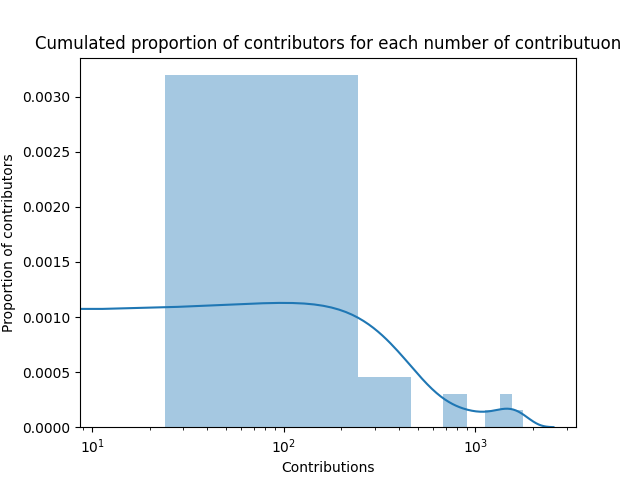
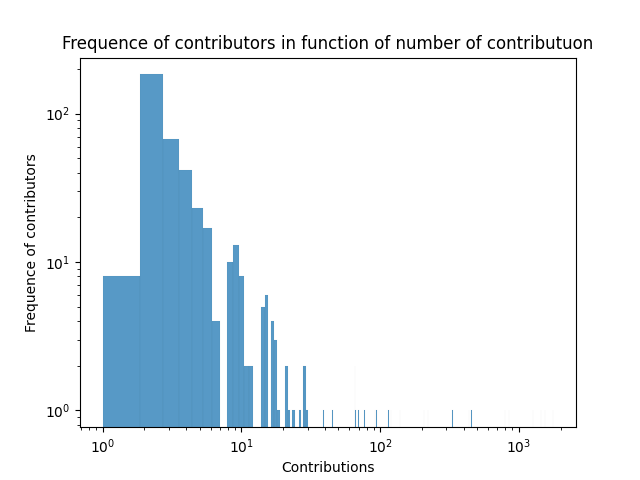
final commit (I hope)

diff --git a/delight.py b/delight.py
@@ -47,6 +47,8 @@ def plot_cumulated_contributions(contributor_list):
 def plot_contributions(contributor_list):
     contributions_list = [contributor['contributions'] for contributor in contributor_list]
     plot = sns.histplot(contributions_list)
+    plot.set_xscale("log")
+    plot.set_yscale("log")
     plot.set(xlabel="Contributions", ylabel="Frequence of contributors")
     plot.set_title("Frequence of contributors in function of number of contributuon")
     plt.savefig("contributions.png")
@@ -59,8 +61,8 @@ def pie_plot(contributor_list):
     plt.savefig("contributors_pie.png")
     plt.clf()
 
-contributor_list = [
-  {"login": "zpao",
-    'id': 8445, 'node_id': 'MDQ6VXNlcjg0NDU=', 'avatar_url': 'https://avatars1.githubusercontent.com/u/8445?v=4', 'gravatar_id': '', 'url': 'https://api.github.com/users/zpao', 'html_url': 'https://github.com/zpao', 'followers_url': 'https://api.github.com/users/zpao/followers', 'following_url': 'https://api.github.com/users/zpao/following{/other_user}', 'gists_url': 'https://api.github.com/users/zpao/gists{/gist_id}', 'starred_url': 'https://api.github.com/users/zpao/starred{/owner}{/repo}', 'subscriptions_url': 'https://api.github.com/users/zpao/subscriptions', 'organizations_url': 'https://api.github.com/users/zpao/orgs', 'repos_url': 'https://api.github.com/users/zpao/repos', 'events_url': 'https://api.github.com/users/zpao/events{/privacy}', 'received_events_url': 'https://api.github.com/users/zpao/received_events', 'type': 'User', 'site_admin': False, 'contributions': 1777}, {'login': 'gaearon', 'id': 810438, 'node_id': 'MDQ6VXNlcjgxMDQzOA==', 'avatar_url': 'https://avatars0.githubusercontent.com/u/810438?v=4', 'gravatar_id': '', 'url': 'https://api.github.com/users/gaearon', 'html_url': 'https://github.com/gaearon', 'followers_url': 'https://api.github.com/users/gaearon/followers', 'following_url': 'https://api.github.com/users/gaearon/following{/other_user}', 'gists_url': 'https://api.github.com/users/gaearon/gists{/gist_id}', 'starred_url': 'https://api.github.com/users/gaearon/starred{/owner}{/repo}', 'subscriptions_url': 'https://api.github.com/users/gaearon/subscriptions', 'organizations_url': 'https://api.github.com/users/gaearon/orgs', 'repos_url': 'https://api.github.com/users/gaearon/repos', 'events_url': 'https://api.github.com/users/gaearon/events{/privacy}', 'received_events_url': 'https://api.github.com/users/gaearon/received_events', 'type': 'User', 'site_admin': False, 'contributions': 1547}, {'login': 'bvaughn', 'id': 29597, 'node_id': 'MDQ6VXNlcjI5NTk3', 'avatar_url': 'https://avatars0.githubusercontent.com/u/29597?v=4', 'gravatar_id': '', 'url': 'https://api.github.com/users/bvaughn', 'html_url': 'https://github.com/bvaughn', 'followers_url': 'https://api.github.com/users/bvaughn/followers', 'following_url': 'https://api.github.com/users/bvaughn/following{/other_user}', 'gists_url': 'https://api.github.com/users/bvaughn/gists{/gist_id}', 'starred_url': 'https://api.github.com/users/bvaughn/starred{/owner}{/repo}', 'subscriptions_url': 'https://api.github.com/users/bvaughn/subscriptions', 'organizations_url': 'https://api.github.com/users/bvaughn/orgs', 'repos_url': 'https://api.github.com/users/bvaughn/repos', 'events_url': 'https://api.github.com/users/bvaughn/events{/privacy}', 'received_events_url': 'https://api.github.com/users/bvaughn/received_events', 'type': 'User', 'site_admin': False, 'contributions': 1435}, {'login': 'sophiebits', 'id': 6820, 'node_id': 'MDQ6VXNlcjY4MjA=', 'avatar_url': 'https://avatars2.githubusercontent.com/u/6820?v=4', 'gravatar_id': '', 'url': 'https://api.github.com/users/sophiebits', 'html_url': 'https://github.com/sophiebits', 'followers_url': 'https://api.github.com/users/sophiebits/followers', 'following_url': 'https://api.github.com/users/sophiebits/following{/other_user}', 'gists_url': 'https://api.github.com/users/sophiebits/gists{/gist_id}', 'starred_url': 'https://api.github.com/users/sophiebits/starred{/owner}{/repo}', 'subscriptions_url': 'https://api.github.com/users/sophiebits/subscriptions', 'organizations_url': 'https://api.github.com/users/sophiebits/orgs', 'repos_url': 'https://api.github.com/users/sophiebits/repos', 'events_url': 'https://api.github.com/users/sophiebits/events{/privacy}', 'received_events_url': 'https://api.github.com/users/sophiebits/received_events', 'type': 'User', 'site_admin': False, 'contributions': 1268}, {'login': 'sebmarkbage', 'id': 63648, 'node_id': 'MDQ6VXNlcjYzNjQ4', 'avatar_url': 'https://avatars2.githubusercontent.com/u/63648?v=4', 'gravatar_id': '', 'url': 'https://api.github.com/users/sebmarkbage', 'html_url': 'https://github.com/sebmarkbage', 'followers_url': 'https://api.github.com/users/sebmarkbage/followers', 'following_url': 'https://api.github.com/users/sebmarkbage/following{/other_user}', 'gists_url': 'https://api.github.com/users/sebmarkbage/gists{/gist_id}', 'starred_url': 'https://api.github.com/users/sebmarkbage/starred{/owner}{/repo}', 'subscriptions_url': 'https://api.github.com/users/sebmarkbage/subscriptions', 'organizations_url': 'https://api.github.com/users/sebmarkbage/orgs', 'repos_url': 'https://api.github.com/users/sebmarkbage/repos', 'events_url': 'https://api.github.com/users/sebmarkbage/events{/privacy}', 'received_events_url': 'https://api.github.com/users/sebmarkbage/received_events', 'type': 'User', 'site_admin': False, 'contributions': 846}, {'login': 'acdlite', 'id': 3624098, 'node_id': 'MDQ6VXNlcjM2MjQwOTg=', 'avatar_url': 'https://avatars0.githubusercontent.com/u/3624098?v=4', 'gravatar_id': '', 'url': 'https://api.github.com/users/acdlite', 'html_url': 'https://github.com/acdlite', 'followers_url': 'https://api.github.com/users/acdlite/followers', 'following_url': 'https://api.github.com/users/acdlite/following{/other_user}', 'gists_url': 'https://api.github.com/users/acdlite/gists{/gist_id}', 'starred_url': 'https://api.github.com/users/acdlite/starred{/owner}{/repo}', 'subscriptions_url': 'https://api.github.com/users/acdlite/subscriptions', 'organizations_url': 'https://api.github.com/users/acdlite/orgs', 'repos_url': 'https://api.github.com/users/acdlite/repos', 'events_url': 'https://api.github.com/users/acdlite/events{/privacy}', 'received_events_url': 'https://api.github.com/users/acdlite/received_events', 'type': 'User', 'site_admin': False, 'contributions': 797}, {'login': 'jimfb', 'id': 9595985, 'node_id': 'MDQ6VXNlcjk1OTU5ODU=', 'avatar_url': 'https://avatars3.githubusercontent.com/u/9595985?v=4', 'gravatar_id': '', 'url': 'https://api.github.com/users/jimfb', 'html_url': 'https://github.com/jimfb', 'followers_url': 'https://api.github.com/users/jimfb/followers', 'following_url': 'https://api.github.com/users/jimfb/following{/other_user}', 'gists_url': 'https://api.github.com/users/jimfb/gists{/gist_id}', 'starred_url': 'https://api.github.com/users/jimfb/starred{/owner}{/repo}', 'subscriptions_url': 'https://api.github.com/users/jimfb/subscriptions', 'organizations_url': 'https://api.github.com/users/jimfb/orgs', 'repos_url': 'https://api.github.com/users/jimfb/repos', 'events_url': 'https://api.github.com/users/jimfb/events{/privacy}', 'received_events_url': 'https://api.github.com/users/jimfb/received_events', 'type': 'User', 'site_admin': False, 'contributions': 456}, {'login': 'trueadm', 'id': 1519870, 'node_id': 'MDQ6VXNlcjE1MTk4NzA=', 'avatar_url': 'https://avatars0.githubusercontent.com/u/1519870?v=4', 'gravatar_id': '', 'url': 'https://api.github.com/users/trueadm', 'html_url': 'https://github.com/trueadm', 'followers_url': 'https://api.github.com/users/trueadm/followers', 'following_url': 'https://api.github.com/users/trueadm/following{/other_user}', 'gists_url': 'https://api.github.com/users/trueadm/gists{/gist_id}', 'starred_url': 'https://api.github.com/users/trueadm/starred{/owner}{/repo}', 'subscriptions_url': 'https://api.github.com/users/trueadm/subscriptions', 'organizations_url': 'https://api.github.com/users/trueadm/orgs', 'repos_url': 'https://api.github.com/users/trueadm/repos', 'events_url': 'https://api.github.com/users/trueadm/events{/privacy}', 'received_events_url': 'https://api.github.com/users/trueadm/received_events', 'type': 'User', 'site_admin': False, 'contributions': 436}, {'login': 'petehunt', 'id': 239742, 'node_id': 'MDQ6VXNlcjIzOTc0Mg==', 'avatar_url': 'https://avatars0.githubusercontent.com/u/239742?v=4', 'gravatar_id': '', 'url': 'https://api.github.com/users/petehunt', 'html_url': 'https://github.com/petehunt', 'followers_url': 'https://api.github.com/users/petehunt/followers', 'following_url': 'https://api.github.com/users/petehunt/following{/other_user}', 'gists_url': 'https://api.github.com/users/petehunt/gists{/gist_id}', 'starred_url': 'https://api.github.com/users/petehunt/starred{/owner}{/repo}', 'subscriptions_url': 'https://api.github.com/users/petehunt/subscriptions', 'organizations_url': 'https://api.github.com/users/petehunt/orgs', 'repos_url': 'https://api.github.com/users/petehunt/repos', 'events_url': 'https://api.github.com/users/petehunt/events{/privacy}', 'received_events_url': 'https://api.github.com/users/petehunt/received_events', 'type': 'User', 'site_admin': False, 'contributions': 332}, {'login': 'chenglou', 'id': 1909539, 'node_id': 'MDQ6VXNlcjE5MDk1Mzk=', 'avatar_url': 'https://avatars2.githubusercontent.com/u/1909539?v=4', 'gravatar_id': '', 'url': 'https://api.github.com/users/chenglou', 'html_url': 'https://github.com/chenglou', 'followers_url': 'https://api.github.com/users/chenglou/followers', 'following_url': 'https://api.github.com/users/chenglou/following{/other_user}', 'gists_url': 'https://api.github.com/users/chenglou/gists{/gist_id}', 'starred_url': 'https://api.github.com/users/chenglou/starred{/owner}{/repo}', 'subscriptions_url': 'https://api.github.com/users/chenglou/subscriptions', 'organizations_url': 'https://api.github.com/users/chenglou/orgs', 'repos_url': 'https://api.github.com/users/chenglou/repos', 'events_url': 'https://api.github.com/users/chenglou/events{/privacy}', 'received_events_url': 'https://api.github.com/users/chenglou/received_events', 'type': 'User', 'site_admin': False, 'contributions': 222}, {'login': 'vjeux', 'id': 197597, 'node_id': 'MDQ6VXNlcjE5NzU5Nw==', 'avatar_url': 'https://avatars0.githubusercontent.com/u/197597?v=4', 'gravatar_id': '', 'url': 'https://api.github.com/users/vjeux', 'html_url': 'https://github.com/vjeux', 'followers_url': 'https://api.github.com/users/vjeux/followers', 'following_url': 'https://api.github.com/users/vjeux/following{/other_user}', 'gists_url': 'https://api.github.com/users/vjeux/gists{/gist_id}', 'starred_url': 'https://api.github.com/users/vjeux/starred{/owner}{/repo}', 'subscriptions_url': 'https://api.github.com/users/vjeux/subscriptions', 'organizations_url': 'https://api.github.com/users/vjeux/orgs', 'repos_url': 'https://api.github.com/users/vjeux/repos', 'events_url': 'https://api.github.com/users/vjeux/events{/privacy}', 'received_events_url': 'https://api.github.com/users/vjeux/received_events', 'type': 'User', 'site_admin': False, 'contributions': 207}, {'login': 'benjamn', 'id': 5750, 'node_id': 'MDQ6VXNlcjU3NTA=', 'avatar_url': 'https://avatars0.githubusercontent.com/u/5750?v=4', 'gravatar_id': '', 'url': 'https://api.github.com/users/benjamn', 'html_url': 'https://github.com/benjamn', 'followers_url': 'https://api.github.com/users/benjamn/followers', 'following_url': 'https://api.github.com/users/benjamn/following{/other_user}', 'gists_url': 'https://api.github.com/users/benjamn/gists{/gist_id}', 'starred_url': 'https://api.github.com/users/benjamn/starred{/owner}{/repo}', 'subscriptions_url': 'https://api.github.com/users/benjamn/subscriptions', 'organizations_url': 'https://api.github.com/users/benjamn/orgs', 'repos_url': 'https://api.github.com/users/benjamn/repos', 'events_url': 'https://api.github.com/users/benjamn/events{/privacy}', 'received_events_url': 'https://api.github.com/users/benjamn/received_events', 'type': 'User', 'site_admin': False, 'contributions': 140}, {'login': 'yungsters', 'id': 55161, 'node_id': 'MDQ6VXNlcjU1MTYx', 'avatar_url': 'https://avatars0.githubusercontent.com/u/55161?v=4', 'gravatar_id': '', 'url': 'https://api.github.com/users/yungsters', 'html_url': 'https://github.com/yungsters', 'followers_url': 'https://api.github.com/users/yungsters/followers', 'following_url': 'https://api.github.com/users/yungsters/following{/other_user}', 'gists_url': 'https://api.github.com/users/yungsters/gists{/gist_id}', 'starred_url': 'https://api.github.com/users/yungsters/starred{/owner}{/repo}', 'subscriptions_url': 'https://api.github.com/users/yungsters/subscriptions', 'organizations_url': 'https://api.github.com/users/yungsters/orgs', 'repos_url': 'https://api.github.com/users/yungsters/repos', 'events_url': 'https://api.github.com/users/yungsters/events{/privacy}', 'received_events_url': 'https://api.github.com/users/yungsters/received_events', 'type': 'User', 'site_admin': False, 'contributions': 120}, {'login': 'subtleGradient', 'id': 4117, 'node_id': 'MDQ6VXNlcjQxMTc=', 'avatar_url': 'https://avatars2.githubusercontent.com/u/4117?v=4', 'gravatar_id': '', 'url': 'https://api.github.com/users/subtleGradient', 'html_url': 'https://github.com/subtleGradient', 'followers_url': 'https://api.github.com/users/subtleGradient/followers', 'following_url': 'https://api.github.com/users/subtleGradient/following{/other_user}', 'gists_url': 'https://api.github.com/users/subtleGradient/gists{/gist_id}', 'starred_url': 'https://api.github.com/users/subtleGradient/starred{/owner}{/repo}', 'subscriptions_url': 'https://api.github.com/users/subtleGradient/subscriptions', 'organizations_url': 'https://api.github.com/users/subtleGradient/orgs', 'repos_url': 'https://api.github.com/users/subtleGradient/repos', 'events_url': 'https://api.github.com/users/subtleGradient/events{/privacy}', 'received_events_url': 'https://api.github.com/users/subtleGradient/received_events', 'type': 'User', 'site_admin': False, 'contributions': 115}, {'login': 'nhunzaker', 'id': 590904, 'node_id': 'MDQ6VXNlcjU5MDkwNA==', 'avatar_url': 'https://avatars3.githubusercontent.com/u/590904?v=4', 'gravatar_id': '', 'url': 'https://api.github.com/users/nhunzaker', 'html_url': 'https://github.com/nhunzaker', 'followers_url': 'https://api.github.com/users/nhunzaker/followers', 'following_url': 'https://api.github.com/users/nhunzaker/following{/other_user}', 'gists_url': 'https://api.github.com/users/nhunzaker/gists{/gist_id}', 'starred_url': 'https://api.github.com/users/nhunzaker/starred{/owner}{/repo}', 'subscriptions_url': 'https://api.github.com/users/nhunzaker/subscriptions', 'organizations_url': 'https://api.github.com/users/nhunzaker/orgs', 'repos_url': 'https://api.github.com/users/nhunzaker/repos', 'events_url': 'https://api.github.com/users/nhunzaker/events{/privacy}', 'received_events_url': 'https://api.github.com/users/nhunzaker/received_events', 'type': 'User', 'site_admin': False, 'contributions': 94}, {'login': 'necolas', 'id': 239676, 'node_id': 'MDQ6VXNlcjIzOTY3Ng==', 'avatar_url': 'https://avatars2.githubusercontent.com/u/239676?v=4', 'gravatar_id': '', 'url': 'https://api.github.com/users/necolas', 'html_url': 'https://github.com/necolas', 'followers_url': 'https://api.github.com/users/necolas/followers', 'following_url': 'https://api.github.com/users/necolas/following{/other_user}', 'gists_url': 'https://api.github.com/users/necolas/gists{/gist_id}', 'starred_url': 'https://api.github.com/users/necolas/starred{/owner}{/repo}', 'subscriptions_url': 'https://api.github.com/users/necolas/subscriptions', 'organizations_url': 'https://api.github.com/users/necolas/orgs', 'repos_url': 'https://api.github.com/users/necolas/repos', 'events_url': 'https://api.github.com/users/necolas/events{/privacy}', 'received_events_url': 'https://api.github.com/users/necolas/received_events', 'type': 'User', 'site_admin': False, 'contributions': 92}, {'login': 'syranide', 'id': 1714255, 'node_id': 'MDQ6VXNlcjE3MTQyNTU=', 'avatar_url': 'https://avatars1.githubusercontent.com/u/1714255?v=4', 'gravatar_id': '', 'url': 'https://api.github.com/users/syranide', 'html_url': 'https://github.com/syranide', 'followers_url': 'https://api.github.com/users/syranide/followers', 'following_url': 'https://api.github.com/users/syranide/following{/other_user}', 'gists_url': 'https://api.github.com/users/syranide/gists{/gist_id}', 'starred_url': 'https://api.github.com/users/syranide/starred{/owner}{/repo}', 'subscriptions_url': 'https://api.github.com/users/syranide/subscriptions', 'organizations_url': 'https://api.github.com/users/syranide/orgs', 'repos_url': 'https://api.github.com/users/syranide/repos', 'events_url': 'https://api.github.com/users/syranide/events{/privacy}', 'received_events_url': 'https://api.github.com/users/syranide/received_events', 'type': 'User', 'site_admin': False, 'contributions': 77}, {'login': 'cpojer', 'id': 13352, 'node_id': 'MDQ6VXNlcjEzMzUy', 'avatar_url': 'https://avatars0.githubusercontent.com/u/13352?v=4', 'gravatar_id': '', 'url': 'https://api.github.com/users/cpojer', 'html_url': 'https://github.com/cpojer', 'followers_url': 'https://api.github.com/users/cpojer/followers', 'following_url': 'https://api.github.com/users/cpojer/following{/other_user}', 'gists_url': 'https://api.github.com/users/cpojer/gists{/gist_id}', 'starred_url': 'https://api.github.com/users/cpojer/starred{/owner}{/repo}', 'subscriptions_url': 'https://api.github.com/users/cpojer/subscriptions', 'organizations_url': 'https://api.github.com/users/cpojer/orgs', 'repos_url': 'https://api.github.com/users/cpojer/repos', 'events_url': 'https://api.github.com/users/cpojer/events{/privacy}', 'received_events_url': 'https://api.github.com/users/cpojer/received_events', 'type': 'User', 'site_admin': False, 'contributions': 70}, {'login': 'flarnie', 'id': 1114467, 'node_id': 'MDQ6VXNlcjExMTQ0Njc=', 'avatar_url': 'https://avatars2.githubusercontent.com/u/1114467?v=4', 'gravatar_id': '', 'url': 'https://api.github.com/users/flarnie', 'html_url': 'https://github.com/flarnie', 'followers_url': 'https://api.github.com/users/flarnie/followers', 'following_url': 'https://api.github.com/users/flarnie/following{/other_user}', 'gists_url': 'https://api.github.com/users/flarnie/gists{/gist_id}', 'starred_url': 'https://api.github.com/users/flarnie/starred{/owner}{/repo}', 'subscriptions_url': 'https://api.github.com/users/flarnie/subscriptions', 'organizations_url': 'https://api.github.com/users/flarnie/orgs', 'repos_url': 'https://api.github.com/users/flarnie/repos', 'events_url': 'https://api.github.com/users/flarnie/events{/privacy}', 'received_events_url': 'https://api.github.com/users/flarnie/received_events', 'type': 'User', 'site_admin': False, 'contributions': 67}, {'login': 'koba04', 'id': 250407, 'node_id': 'MDQ6VXNlcjI1MDQwNw==', 'avatar_url': 'https://avatars2.githubusercontent.com/u/250407?v=4', 'gravatar_id': '', 'url': 'https://api.github.com/users/koba04', 'html_url': 'https://github.com/koba04', 'followers_url': 'https://api.github.com/users/koba04/followers', 'following_url': 'https://api.github.com/users/koba04/following{/other_user}', 'gists_url': 'https://api.github.com/users/koba04/gists{/gist_id}', 'starred_url': 'https://api.github.com/users/koba04/starred{/owner}{/repo}', 'subscriptions_url': 'https://api.github.com/users/koba04/subscriptions', 'organizations_url': 'https://api.github.com/users/koba04/orgs', 'repos_url': 'https://api.github.com/users/koba04/repos', 'events_url': 'https://api.github.com/users/koba04/events{/privacy}', 'received_events_url': 'https://api.github.com/users/koba04/received_events', 'type': 'User', 'site_admin': False, 'contributions': 66}, {'login': 'aweary', 'id': 6886061, 'node_id': 'MDQ6VXNlcjY4ODYwNjE=', 'avatar_url': 'https://avatars2.githubusercontent.com/u/6886061?v=4', 'gravatar_id': '', 'url': 'https://api.github.com/users/aweary', 'html_url': 'https://github.com/aweary', 'followers_url': 'https://api.github.com/users/aweary/followers', 'following_url': 'https://api.github.com/users/aweary/following{/other_user}', 'gists_url': 'https://api.github.com/users/aweary/gists{/gist_id}', 'starred_url': 'https://api.github.com/users/aweary/starred{/owner}{/repo}', 'subscriptions_url': 'https://api.github.com/users/aweary/subscriptions', 'organizations_url': 'https://api.github.com/users/aweary/orgs', 'repos_url': 'https://api.github.com/users/aweary/repos', 'events_url': 'https://api.github.com/users/aweary/events{/privacy}', 'received_events_url': 'https://api.github.com/users/aweary/received_events', 'type': 'User', 'site_admin': False, 'contributions': 66}, {'login': 'marocchino', 'id': 128431, 'node_id': 'MDQ6VXNlcjEyODQzMQ==', 'avatar_url': 'https://avatars3.githubusercontent.com/u/128431?v=4', 'gravatar_id': '', 'url': 'https://api.github.com/users/marocchino', 'html_url': 'https://github.com/marocchino', 'followers_url': 'https://api.github.com/users/marocchino/followers', 'following_url': 'https://api.github.com/users/marocchino/following{/other_user}', 'gists_url': 'https://api.github.com/users/marocchino/gists{/gist_id}', 'starred_url': 'https://api.github.com/users/marocchino/starred{/owner}{/repo}', 'subscriptions_url': 'https://api.github.com/users/marocchino/subscriptions', 'organizations_url': 'https://api.github.com/users/marocchino/orgs', 'repos_url': 'https://api.github.com/users/marocchino/repos', 'events_url': 'https://api.github.com/users/marocchino/events{/privacy}', 'received_events_url': 'https://api.github.com/users/marocchino/received_events', 'type': 'User', 'site_admin': False, 'contributions': 45}, {'login': 'kohei-takata', 'id': 7623979, 'node_id': 'MDQ6VXNlcjc2MjM5Nzk=', 'avatar_url': 'https://avatars0.githubusercontent.com/u/7623979?v=4', 'gravatar_id': '', 'url': 'https://api.github.com/users/kohei-takata', 'html_url': 'https://github.com/kohei-takata', 'followers_url': 'https://api.github.com/users/kohei-takata/followers', 'following_url': 'https://api.github.com/users/kohei-takata/following{/other_user}', 'gists_url': 'https://api.github.com/users/kohei-takata/gists{/gist_id}', 'starred_url': 'https://api.github.com/users/kohei-takata/starred{/owner}{/repo}', 'subscriptions_url': 'https://api.github.com/users/kohei-takata/subscriptions', 'organizations_url': 'https://api.github.com/users/kohei-takata/orgs', 'repos_url': 'https://api.github.com/users/kohei-takata/repos', 'events_url': 'https://api.github.com/users/kohei-takata/events{/privacy}', 'received_events_url': 'https://api.github.com/users/kohei-takata/received_events', 'type': 'User', 'site_admin': False, 'contributions': 39}, {'login': 'TheSavior', 'id': 249164, 'node_id': 'MDQ6VXNlcjI0OTE2NA==', 'avatar_url': 'https://avatars0.githubusercontent.com/u/249164?v=4', 'gravatar_id': '', 'url': 'https://api.github.com/users/TheSavior', 'html_url': 'https://github.com/TheSavior', 'followers_url': 'https://api.github.com/users/TheSavior/followers', 'following_url': 'https://api.github.com/users/TheSavior/following{/other_user}', 'gists_url': 'https://api.github.com/users/TheSavior/gists{/gist_id}', 'starred_url': 'https://api.github.com/users/TheSavior/starred{/owner}{/repo}', 'subscriptions_url': 'https://api.github.com/users/TheSavior/subscriptions', 'organizations_url': 'https://api.github.com/users/TheSavior/orgs', 'repos_url': 'https://api.github.com/users/TheSavior/repos', 'events_url': 'https://api.github.com/users/TheSavior/events{/privacy}', 'received_events_url': 'https://api.github.com/users/TheSavior/received_events', 'type': 'User', 'site_admin': False, 'contributions': 30}, {'login': 'chicoxyzzy', 'id': 1507086, 'node_id': 'MDQ6VXNlcjE1MDcwODY=', 'avatar_url': 'https://avatars3.githubusercontent.com/u/1507086?v=4', 'gravatar_id': '', 'url': 'https://api.github.com/users/chicoxyzzy', 'html_url': 'https://github.com/chicoxyzzy', 'followers_url': 'https://api.github.com/users/chicoxyzzy/followers', 'following_url': 'https://api.github.com/users/chicoxyzzy/following{/other_user}', 'gists_url': 'https://api.github.com/users/chicoxyzzy/gists{/gist_id}', 'starred_url': 'https://api.github.com/users/chicoxyzzy/starred{/owner}{/repo}', 'subscriptions_url': 'https://api.github.com/users/chicoxyzzy/subscriptions', 'organizations_url': 'https://api.github.com/users/chicoxyzzy/orgs', 'repos_url': 'https://api.github.com/users/chicoxyzzy/repos', 'events_url': 'https://api.github.com/users/chicoxyzzy/events{/privacy}', 'received_events_url': 'https://api.github.com/users/chicoxyzzy/received_events', 'type': 'User', 'site_admin': False, 'contributions': 29}, {'login': 'lunaruan', 'id': 2735514, 'node_id': 'MDQ6VXNlcjI3MzU1MTQ=', 'avatar_url': 'https://avatars0.githubusercontent.com/u/2735514?v=4', 'gravatar_id': '', 'url': 'https://api.github.com/users/lunaruan', 'html_url': 'https://github.com/lunaruan', 'followers_url': 'https://api.github.com/users/lunaruan/followers', 'following_url': 'https://api.github.com/users/lunaruan/following{/other_user}', 'gists_url': 'https://api.github.com/users/lunaruan/gists{/gist_id}', 'starred_url': 'https://api.github.com/users/lunaruan/starred{/owner}{/repo}', 'subscriptions_url': 'https://api.github.com/users/lunaruan/subscriptions', 'organizations_url': 'https://api.github.com/users/lunaruan/orgs', 'repos_url': 'https://api.github.com/users/lunaruan/repos', 'events_url': 'https://api.github.com/users/lunaruan/events{/privacy}', 'received_events_url': 'https://api.github.com/users/lunaruan/received_events', 'type': 'User', 'site_admin': False, 'contributions': 29}, {'login': 'keyz', 'id': 2268452, 'node_id': 'MDQ6VXNlcjIyNjg0NTI=', 'avatar_url': 'https://avatars0.githubusercontent.com/u/2268452?v=4', 'gravatar_id': '', 'url': 'https://api.github.com/users/keyz', 'html_url': 'https://github.com/keyz', 'followers_url': 'https://api.github.com/users/keyz/followers', 'following_url': 'https://api.github.com/users/keyz/following{/other_user}', 'gists_url': 'https://api.github.com/users/keyz/gists{/gist_id}', 'starred_url': 'https://api.github.com/users/keyz/starred{/owner}{/repo}', 'subscriptions_url': 'https://api.github.com/users/keyz/subscriptions', 'organizations_url': 'https://api.github.com/users/keyz/orgs', 'repos_url': 'https://api.github.com/users/keyz/repos', 'events_url': 'https://api.github.com/users/keyz/events{/privacy}', 'received_events_url': 'https://api.github.com/users/keyz/received_events', 'type': 'User', 'site_admin': False, 'contributions': 28}, {'login': 'rickhanlonii', 'id': 2440089, 'node_id': 'MDQ6VXNlcjI0NDAwODk=', 'avatar_url': 'https://avatars0.githubusercontent.com/u/2440089?v=4', 'gravatar_id': '', 'url': 'https://api.github.com/users/rickhanlonii', 'html_url': 'https://github.com/rickhanlonii', 'followers_url': 'https://api.github.com/users/rickhanlonii/followers', 'following_url': 'https://api.github.com/users/rickhanlonii/following{/other_user}', 'gists_url': 'https://api.github.com/users/rickhanlonii/gists{/gist_id}', 'starred_url': 'https://api.github.com/users/rickhanlonii/starred{/owner}{/repo}', 'subscriptions_url': 'https://api.github.com/users/rickhanlonii/subscriptions', 'organizations_url': 'https://api.github.com/users/rickhanlonii/orgs', 'repos_url': 'https://api.github.com/users/rickhanlonii/repos', 'events_url': 'https://api.github.com/users/rickhanlonii/events{/privacy}', 'received_events_url': 'https://api.github.com/users/rickhanlonii/received_events', 'type': 'User', 'site_admin': False, 'contributions': 28}, {'login': 'mcsheffrey', 'id': 61091, 'node_id': 'MDQ6VXNlcjYxMDkx', 'avatar_url': 'https://avatars2.githubusercontent.com/u/61091?v=4', 'gravatar_id': '', 'url': 'https://api.github.com/users/mcsheffrey', 'html_url': 'https://github.com/mcsheffrey', 'followers_url': 'https://api.github.com/users/mcsheffrey/followers', 'following_url': 'https://api.github.com/users/mcsheffrey/following{/other_user}', 'gists_url': 'https://api.github.com/users/mcsheffrey/gists{/gist_id}', 'starred_url': 'https://api.github.com/users/mcsheffrey/starred{/owner}{/repo}', 'subscriptions_url': 'https://api.github.com/users/mcsheffrey/subscriptions', 'organizations_url': 'https://api.github.com/users/mcsheffrey/orgs', 'repos_url': 'https://api.github.com/users/mcsheffrey/repos', 'events_url': 'https://api.github.com/users/mcsheffrey/events{/privacy}', 'received_events_url': 'https://api.github.com/users/mcsheffrey/received_events', 'type': 'User', 'site_admin': False, 'contributions': 26}, {'login': 'bgw', 'id': 180404, 'node_id': 'MDQ6VXNlcjE4MDQwNA==', 'avatar_url': 'https://avatars2.githubusercontent.com/u/180404?v=4', 'gravatar_id': '', 'url': 'https://api.github.com/users/bgw', 'html_url': 'https://github.com/bgw', 'followers_url': 'https://api.github.com/users/bgw/followers', 'following_url': 'https://api.github.com/users/bgw/following{/other_user}', 'gists_url': 'https://api.github.com/users/bgw/gists{/gist_id}', 'starred_url': 'https://api.github.com/users/bgw/starred{/owner}{/repo}', 'subscriptions_url': 'https://api.github.com/users/bgw/subscriptions', 'organizations_url': 'https://api.github.com/users/bgw/orgs', 'repos_url': 'https://api.github.com/users/bgw/repos', 'events_url': 'https://api.github.com/users/bgw/events{/privacy}', 'received_events_url': 'https://api.github.com/users/bgw/received_events', 'type': 'User', 'site_admin': False, 'contributions': 24}]
-
+contributor_list = get_contributors_list()
+monitor_event(contributor_list)
+plot_cumulated_contributions(contributor_list)
+plot_contributions(contributor_list)
 pie_plot(contributor_list)
